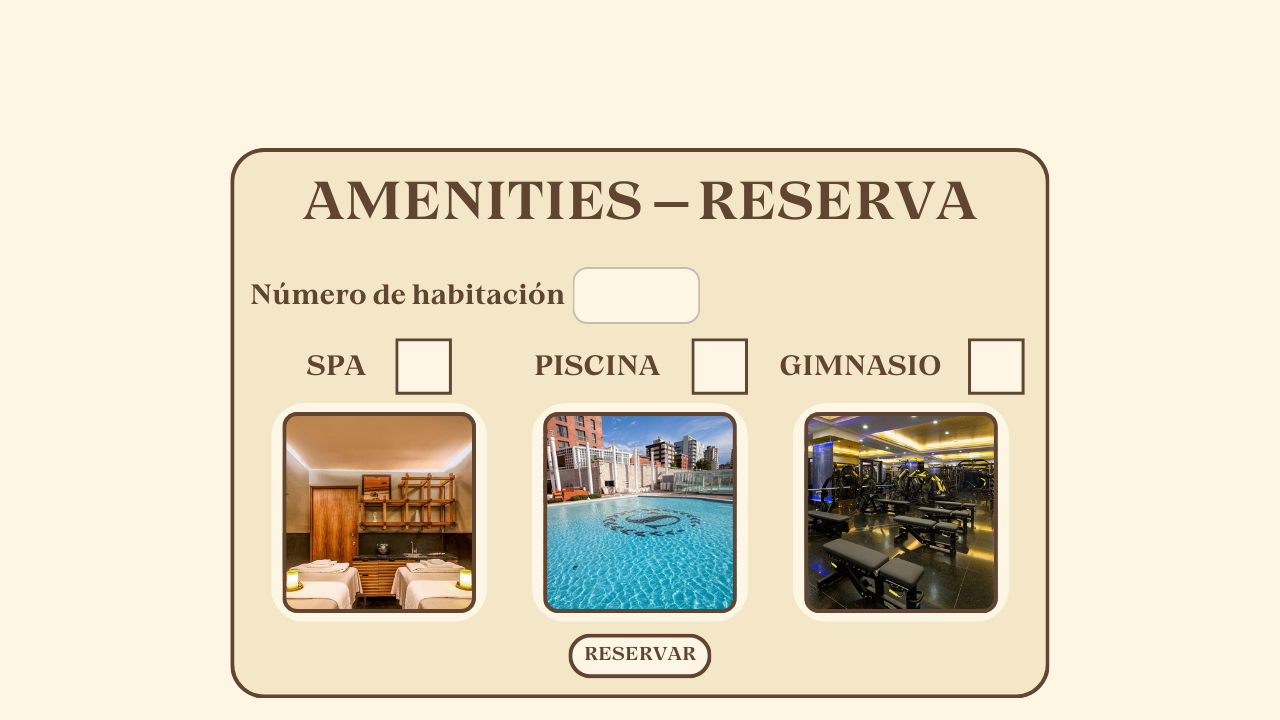
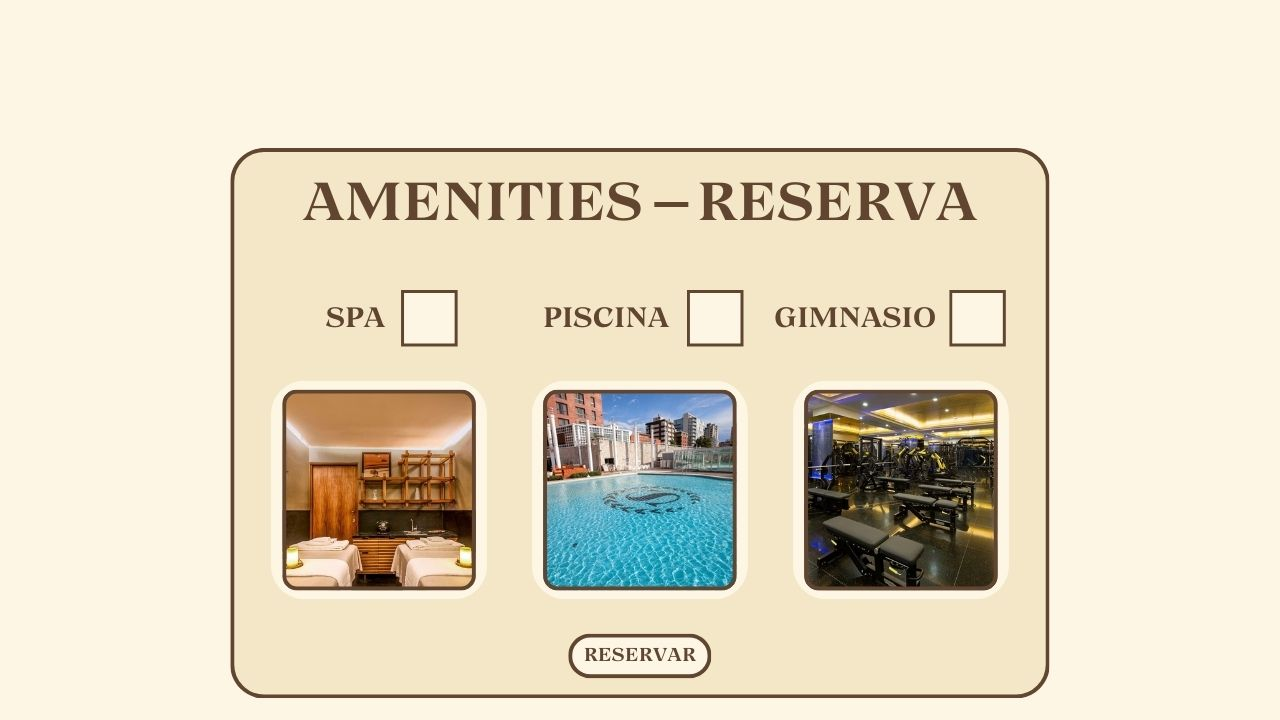
FOTO

Changed region(s): [[0.1875, 0.3667, 0.8125, 0.9167], [0.25, 0.2444, 0.5, 0.3056], [0.5625, 0.2444, 0.75, 0.3056]]

diff --git a/main2.py b/main2.py
@@ -303,22 +303,22 @@ def cursor(mouse_pos):
 
     elif fondo_actual[0] == "reservar habitacion":
 
-        if mouse_pos[0] < 687 and mouse_pos[0] > 400 and mouse_pos[1] < 300 and mouse_pos[1] > 253: #nombre y apellido        
+        if mouse_pos[0] < 690 and mouse_pos[0] > 400 and mouse_pos[1] < 295 and mouse_pos[1] > 255: #nombre y apellido        
                         
             pygame.mouse.set_cursor(pygame.SYSTEM_CURSOR_IBEAM) 
         
 
-        elif mouse_pos[0] < 332 and mouse_pos[0] > 223 and mouse_pos[1] < 383 and mouse_pos[1] > 225: #dia inicio        
+        elif mouse_pos[0] < 330 and mouse_pos[0] > 225 and mouse_pos[1] < 375 and mouse_pos[1] > 335: #dia inicio        
                         
             pygame.mouse.set_cursor(pygame.SYSTEM_CURSOR_IBEAM) 
 
 
-        elif mouse_pos[0] < 493 and mouse_pos[0] > 386 and mouse_pos[1] < 380 and mouse_pos[1] > 337: #dia fin      
+        elif mouse_pos[0] < 490 and mouse_pos[0] > 386 and mouse_pos[1] < 380 and mouse_pos[1] > 335: #dia fin      
                         
             pygame.mouse.set_cursor(pygame.SYSTEM_CURSOR_IBEAM) 
         
 
-        elif mouse_pos[0] < 690 and mouse_pos[0] > 289 and mouse_pos[1] < 453 and mouse_pos[1] > 411: #direccion      
+        elif mouse_pos[0] < 690 and mouse_pos[0] > 290 and mouse_pos[1] < 453 and mouse_pos[1] > 411: #direccion      
                         
             pygame.mouse.set_cursor(pygame.SYSTEM_CURSOR_IBEAM) 
 
@@ -361,9 +361,6 @@ def cursor(mouse_pos):
         elif mouse_pos[0] < 1108 and mouse_pos[0] > 1058 and mouse_pos[1] < 460 and mouse_pos[1] > 307: #tarjeta
                         
             pygame.mouse.set_cursor(pygame.SYSTEM_CURSOR_HAND)
-
-
-
 
 
         else:
@@ -466,17 +463,17 @@ def cursor(mouse_pos):
 
     elif fondo_actual[0] == "menu amenities":
 
-        if mouse_pos[0] < 450 and mouse_pos[0] > 392 and mouse_pos[1] < 392 and mouse_pos[1] > 340: #spa
+        if mouse_pos[0] < 455 and mouse_pos[0] > 400 and mouse_pos[1] < 342 and mouse_pos[1] > 290: #spa
 
             pygame.mouse.set_cursor(pygame.SYSTEM_CURSOR_HAND)
         
 
-        elif mouse_pos[0] < 747 and mouse_pos[0] > 690 and mouse_pos[1] < 392 and mouse_pos[1] > 340: #piscina
+        elif mouse_pos[0] < 740 and mouse_pos[0] > 688 and mouse_pos[1] < 345 and mouse_pos[1] > 290: #piscina
 
             pygame.mouse.set_cursor(pygame.SYSTEM_CURSOR_HAND)
         
 
-        elif mouse_pos[0] < 1026 and mouse_pos[0] > 968 and mouse_pos[1] < 392 and mouse_pos[1] > 340: #gimnasio
+        elif mouse_pos[0] < 1005 and mouse_pos[0] > 948 and mouse_pos[1] < 345 and mouse_pos[1] > 290: #gimnasio
 
             pygame.mouse.set_cursor(pygame.SYSTEM_CURSOR_HAND)
         
